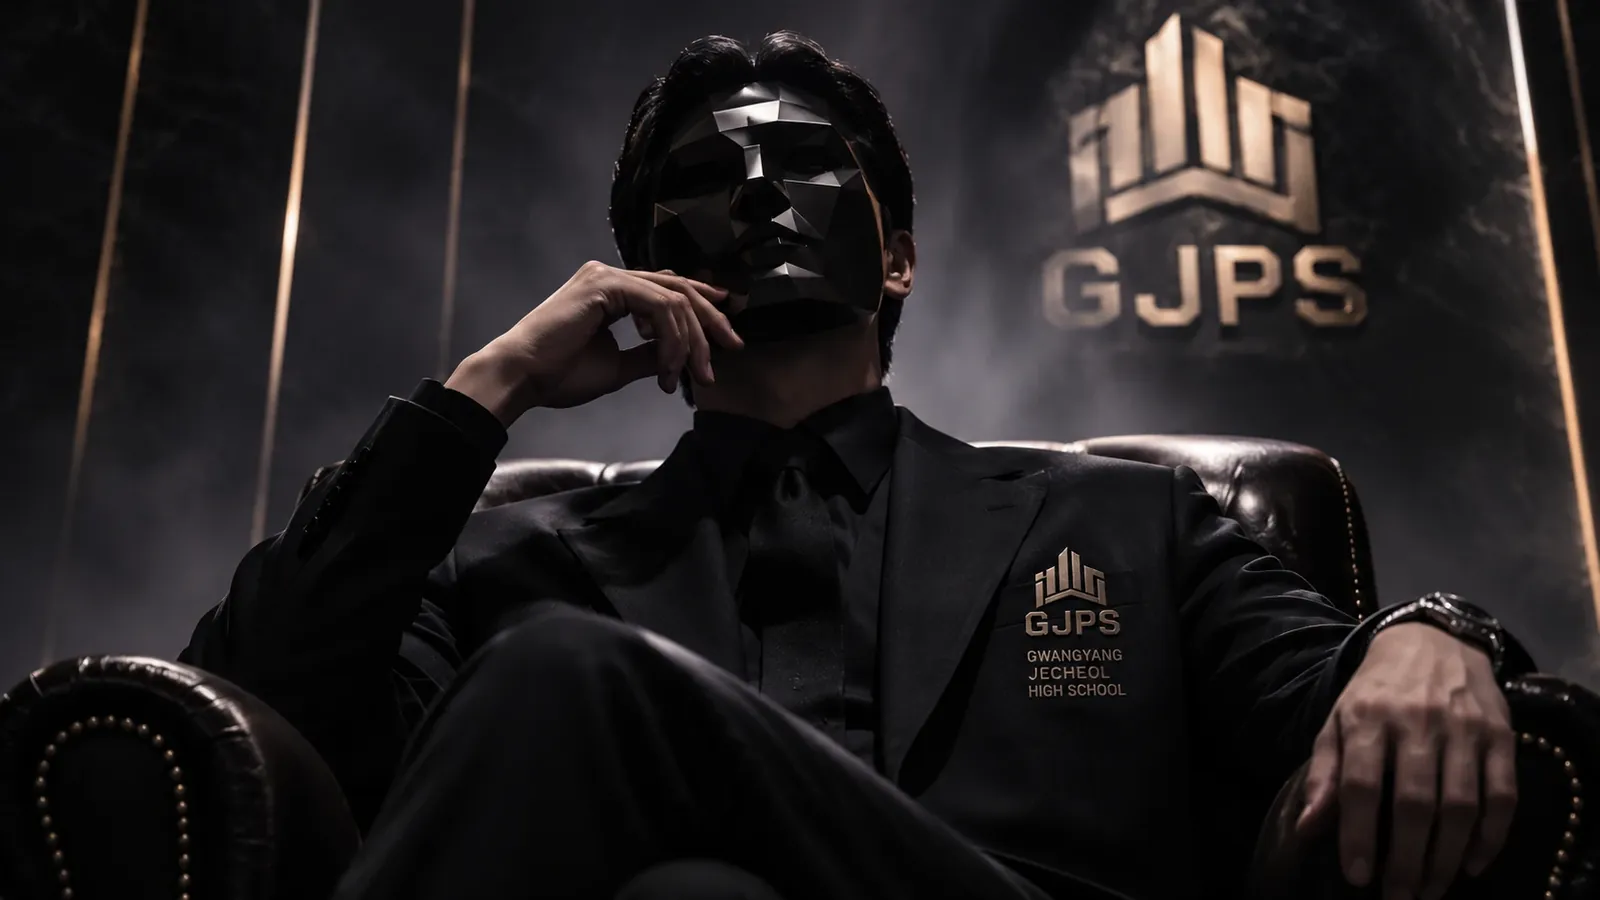
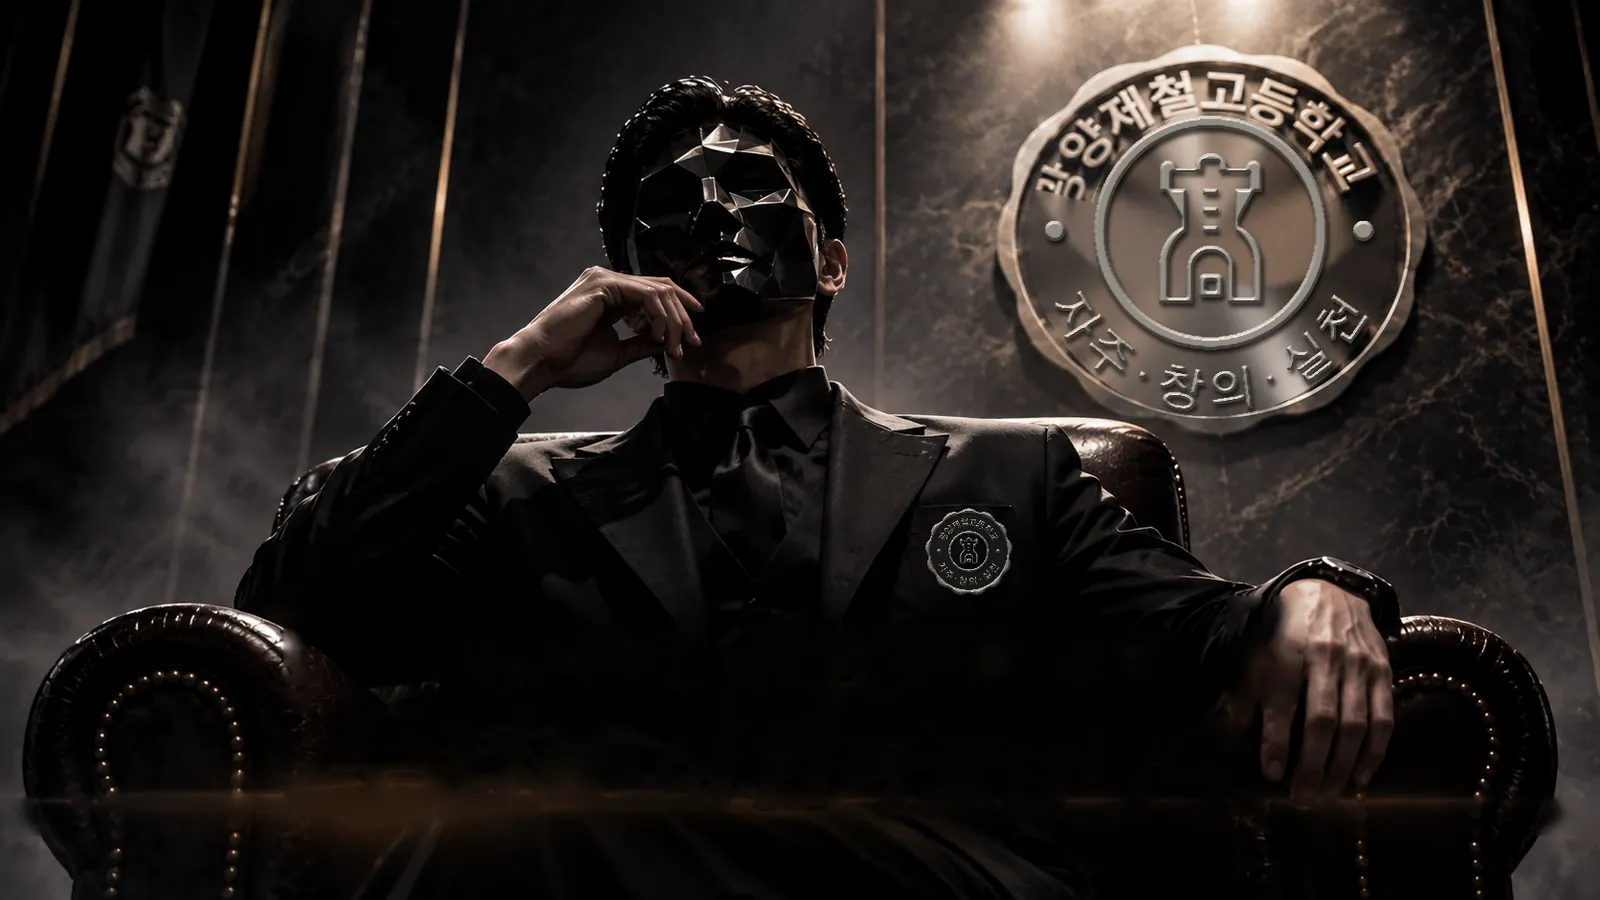
커뮤니티 Part2: 진행자 녹음 목소리·첫 화면 오프닝·진행자 움직임

diff --git a/community2/index.html b/community2/index.html
@@ -79,7 +79,16 @@ input{font:inherit;font-size:20px;padding:10px 12px;border-radius:10px;border:1p
 /* 진행자 사진이 있을 때: 사진을 화면 가득, 글은 왼쪽, 자막은 아래 */
 .host.cine{background:#000}
 .host .bg{display:none}
-.host.cine .bg{display:block;position:absolute;inset:0;background-size:cover;background-position:center 30%;transform:scale(1.04);animation:hzoom 40s linear infinite alternate}
+.host.cine .bg{display:block;position:absolute;inset:0;background-size:cover;background-position:center 30%;transform:scale(1.04);animation:hzoom 40s linear infinite alternate,hbreath 5s ease-in-out infinite}
+/* 2026-11-25: 진행자가 숨 쉬듯(늘) + 말할 때 고개를 살짝 움직이는 느낌 */
+.host.cine.talk .bg{animation:hzoom 40s linear infinite alternate,hbreath 5s ease-in-out infinite,hsway 3.4s ease-in-out infinite,hlit 1.7s ease-in-out infinite}
+@keyframes hbreath{0%,100%{scale:1}50%{scale:1.014}}
+@keyframes hsway{0%,100%{translate:0 0;rotate:0deg}22%{translate:-.35% -.45%;rotate:-.3deg}48%{translate:.1% -.15%;rotate:.08deg}74%{translate:.4% -.4%;rotate:.3deg}}
+@keyframes hlit{0%,100%{filter:brightness(1)}50%{filter:brightness(1.07)}}
+.host.ready{cursor:pointer}
+.host.ready .ctl,.host.ready .pg{display:none}
+.host.ready .sub{animation:hblink 1.6s ease-in-out infinite}
+@keyframes hblink{0%,100%{opacity:1}50%{opacity:.35}}
 @keyframes hzoom{from{transform:scale(1.04)}to{transform:scale(1.12)}}
 .host.cine .shade{position:absolute;inset:0;background:linear-gradient(90deg,#000e 0%,#000b 26%,#0000 52%),linear-gradient(0deg,#000f 0%,#000a 20%,#0000 42%)}
 .host.cine .fig{display:none}
@@ -89,6 +98,14 @@ input{font:inherit;font-size:20px;padding:10px 12px;border-radius:10px;border:1p
 .host.cine .wave{position:fixed;left:50%;bottom:3vh;transform:translateX(-50%);margin:0}
 .host.cine.talk .shade{animation:hred 2.4s ease-in-out infinite}
 @keyframes hred{0%,100%{box-shadow:inset 0 0 0 0 #0000}50%{box-shadow:inset 0 0 18vh 0 #7a0a1433}}
+
+.host.cine .big{background:linear-gradient(180deg,#ffffff 0%,#e4e4e8 42%,#9a9aa3 52%,#f1f1f4 100%);-webkit-background-clip:text;background-clip:text;color:transparent;text-shadow:none;filter:drop-shadow(0 3px 10px #000)}
+.host.cine .big b{background:linear-gradient(180deg,#fff4c8 0%,#e6bb5e 44%,#9c6b1e 54%,#f3d27e 100%);-webkit-background-clip:text;background-clip:text;color:transparent}
+.host.cine .big::after{content:'';display:block;width:70%;height:2px;margin-top:2.6vh;background:linear-gradient(90deg,#0000,#e6bb5e 30%,#fff2c0 50%,#e6bb5e 70%,#0000)}
+.host.cine .big:empty::after{display:none}
+.host.card .side,.host.card .sub{visibility:hidden}
+.host.card .shade{background:none}
+.host.card .bg{background-size:contain;background-repeat:no-repeat;background-color:#000}
 /* 작은 진행자: 문제를 읽을 때 칠판 오른쪽 아래 */
 .mini{position:fixed;right:18px;bottom:18px;z-index:45;display:none;align-items:flex-end;gap:14px;max-width:62vw;pointer-events:none}
 .mini.on{display:flex}
@@ -158,7 +175,7 @@ input{font:inherit;font-size:20px;padding:10px 12px;border-radius:10px;border:1p
  <span>높낮이 <input id="vPitch" type="range" min="0.5" max="1.3" step="0.05" style="width:140px;vertical-align:middle;padding:0"></span>
  <span>빠르기 <input id="vRate" type="range" min="0.7" max="1.2" step="0.05" style="width:140px;vertical-align:middle;padding:0"></span>
  <button class="b g" id="vTest">🔊 들어 보기</button></div>
- <div class="row" style="margin-top:12px"><label style="font-size:18px"><input type="checkbox" id="vReadQ"> 비밀 코드 문제를 열면 조건을 읽어 주기</label><label style="font-size:18px;margin-left:18px"><input type="checkbox" id="vReadRev"> 최종 순위 발표 읽어 주기</label><label style="font-size:18px;margin-left:18px"><input type="checkbox" id="vDrone"> 진행자 화면 배경음</label></div></div>
+ <div class="row" style="margin-top:12px"><label style="font-size:18px"><input type="checkbox" id="vReadQ"> 비밀 코드 문제를 열면 조건을 읽어 주기</label><label style="font-size:18px;margin-left:18px"><input type="checkbox" id="vReadRev"> 최종 순위 발표 읽어 주기</label><label style="font-size:18px;margin-left:18px"><input type="checkbox" id="vRec"> 진행자 녹음 목소리 (끄면 컴퓨터 목소리)</label></div></div>
  <div class="pan"><h2>처음부터</h2><p class="mut">모든 게임 기록을 지웁니다(모둠 이름은 남김). 수업 시작 전 연습해 본 뒤에 누르세요.</p><button class="b r" id="resetAll">전부 초기화</button></div>
 </section>
 </main>
@@ -204,7 +221,7 @@ if (PIN) start();
 function act(a, x) { return run('brdAct', [PIN, a, x]).then(function (s) { S = s; last = ''; draw(); return s; }).catch(function (e) { modal('오류', esc(e.message)); }); }
 function poll() {
   if (!D || busy) return; busy = true;
-  run('brdStatus', [PIN]).then(function (r) { busy = false; off = r.now - Date.now(); S = r.st; S.prog = r.prog; $('conn').className = 'ok'; draw(); auto(); })
+  run('brdStatus', [PIN]).then(function (r) { busy = false; off = r.now - Date.now(); S = r.st; S.prog = r.prog; $('conn').className = 'ok'; draw(); auto(); splash(); })
     .catch(function () { busy = false; $('conn').className = ''; $('conn').textContent = '⚠ 연결 끊김'; });
 }
 setInterval(poll, 2000);
@@ -416,9 +433,47 @@ $('nameSave').onclick = function () { act('names', [].map.call(document.querySel
 $('resetAll').onclick = function () { modal('정말 모든 기록을 지울까요?', '<p>되돌릴 수 없습니다.</p>').then(function (y) { if (y) act('reset'); }); };
 
 // ---------- 검은 가면 진행자 (규칙·문제를 말로 설명) ----------
-var HV = { voice: '', pitch: 0.7, rate: 0.9, readQ: true, readRev: true };
+var HV = { voice: '', pitch: 0.7, rate: 0.9, readQ: true, readRev: true, rec: true };
 try { var hv0 = JSON.parse(localStorage.getItem('cm2voice2') || '{}'); for (var k0 in hv0) HV[k0] = hv0[k0]; } catch (e) {}
 function hvSave() { try { localStorage.setItem('cm2voice2', JSON.stringify(HV)); } catch (e) {} }
+// 진행자 녹음 목소리 (2026-11-25 AI Studio 'Algenib' 목소리로 녹음 → voicefx 쇠긁힘 살짝 + 1.15배 빠르게, voice/*.mp3)
+// 대사 글자가 이 목록과 똑같을 때만 녹음을 틀고, 대사를 고치거나 파일이 없으면 그 줄은 컴퓨터 목소리로 읽음.
+var VOICE = {
+"반갑습니다. 커뮤니티 파트 투, 최종전에 오신 것을 환영합니다.": "voice/intro_00.mp3",
+"지금부터, 광양제철고의 두뇌를 시험하겠습니다.": "voice/intro_01.mp3",
+"오늘 여러분은 세 개의 게임을 치르게 됩니다. 기억의 방. 비밀 코드. 그리고, 울타리 치기.": "voice/intro_02.mp3",
+"각 게임의 순위에 따라 1위는 4점, 2위는 3점, 3위는 2점, 4위는 1점을 얻습니다.": "voice/intro_03.mp3",
+"세 게임의 점수를 모두 더해 최종 순위를 정합니다. 합계가 같다면, 마지막 게임 울타리 치기에서 순위가 높은 모둠이 앞섭니다.": "voice/intro_04.mp3",
+"최종 1위 모둠에게는 심화반 누적 점수 20점이 주어집니다. 2위는 15점, 3위는 10점, 4위는 5점입니다.": "voice/intro_05.mp3",
+"모든 답은 모둠의 태블릿으로 제출합니다. 한 번 제출한 답은 되돌릴 수 없습니다. 신중하게 결정하십시오.": "voice/intro_06.mp3",
+"그럼, 최종전을 시작하겠습니다. 행운을 빕니다.": "voice/intro_07.mp3",
+"첫 번째 게임, 기억의 방입니다.": "voice/mem_00.mp3",
+"지금부터 칠판에 그림 한 장이 60초 동안 공개됩니다. 그 그림을, 최대한 자세히 기억하십시오.": "voice/mem_01.mp3",
+"60초가 지나면 그림은 사라집니다. 그리고 각 모둠의 태블릿에, 몇 군데가 바뀐 그림이 나타납니다.": "voice/mem_02.mp3",
+"100초 안에, 바뀌었다고 생각하는 곳을 눌러 표시하고 제출하십시오. 몇 군데가 바뀌었는지는 태블릿에 알려 드립니다.": "voice/mem_03.mp3",
+"바뀐 곳을 맞히면 1점을 얻습니다. 하지만 바뀌지 않은 곳을 표시하면, 1점을 잃습니다.": "voice/mem_04.mp3",
+"게임은 세 라운드로 진행됩니다. 바뀐 곳은 라운드마다 다섯 곳, 일곱 곳, 여덟 곳으로 늘어납니다.": "voice/mem_05.mp3",
+"모든 라운드의 점수를 더해 순위를 정합니다. 합계가 같다면, 마지막 라운드 점수가 높은 모둠이 앞섭니다.": "voice/mem_06.mp3",
+"기억은, 생각보다 쉽게 무너집니다. 그럼, 기억의 방을 시작하겠습니다.": "voice/mem_07.mp3",
+"두 번째 게임, 비밀 코드입니다.": "voice/code_00.mp3",
+"화면에는 스물여섯 장의 카드가 있습니다. 카드마다 알파벳 하나, 숫자 하나, 색깔 하나, 그리고 도형 하나가 그려져 있습니다.": "voice/code_01.mp3",
+"문제마다 몇 개의 조건이 주어집니다. 그 조건을 모두 만족하는 카드 네 장을 찾으십시오. 정답은, 단 하나뿐입니다.": "voice/code_02.mp3",
+"네 장을 골라 태블릿으로 제출하십시오. 가장 먼저 맞힌 모둠은 4점, 두 번째는 3점, 세 번째는 2점, 네 번째는 1점을 얻습니다.": "voice/code_03.mp3",
+"틀린 답을 제출하면, 그 모둠은 40초 동안 제출할 수 없습니다.": "voice/code_04.mp3",
+"문제는 모두 다섯 개, 문제마다 제한 시간은 4분입니다. 합계가 같은 모둠이 있다면, 연장 문제로 승부를 가립니다.": "voice/code_05.mp3",
+"빠른 모둠이 이기는 게임입니다. 하지만, 틀리는 순간 멈추게 됩니다. 그럼, 비밀 코드를 시작하겠습니다.": "voice/code_06.mp3",
+"마지막 게임, 울타리 치기입니다.": "voice/loop_00.mp3",
+"판 위의 점과 점을 선으로 이어, 끊어지지 않는 하나의 고리를 만드십시오.": "voice/loop_01.mp3",
+"칸 안의 숫자는, 그 칸의 네 변 가운데 고리가 지나가는 변의 개수입니다. 숫자가 없는 칸은, 몇 개가 지나가도 상관없습니다.": "voice/loop_02.mp3",
+"고리는 중간에 갈라지거나 서로 엇갈릴 수 없습니다. 반드시 하나로 이어진, 닫힌 고리여야 합니다.": "voice/loop_03.mp3",
+"먼저 5 곱하기 5 연습판으로, 5분 동안 규칙을 익힙니다. 연습판은 점수에 들어가지 않습니다.": "voice/loop_04.mp3",
+"본게임은 10 곱하기 10 판입니다. 제한 시간은 20분입니다.": "voice/loop_05.mp3",
+"완성한 판을 제출해 정답이면, 완성한 순서대로 순위가 정해집니다. 틀리면 1분 동안 제출할 수 없습니다.": "voice/loop_06.mp3",
+"시간 안에 완성하지 못한 모둠은, 진행률이 높은 순서로 순위를 정합니다.": "voice/loop_07.mp3",
+"이 게임의 순위는, 최종 점수가 같을 때 승부를 가르는 기준이기도 합니다.": "voice/loop_08.mp3",
+"마지막 게임입니다. 그럼, 울타리 치기를 시작하겠습니다.": "voice/loop_09.mp3"
+};
+var VAUD = null;
 // 선생님 그림(img/host.png)이 없을 때 쓰는 검은 가면 실루엣
 var MASK = '<svg viewBox="0 0 400 560" xmlns="http://www.w3.org/2000/svg"><defs>' +
   '<radialGradient id="mk" cx="38%" cy="30%" r="75%"><stop offset="0" stop-color="#3a3a44"/><stop offset=".35" stop-color="#121216"/><stop offset="1" stop-color="#020203"/></radialGradient>' +
@@ -448,15 +503,26 @@ function pickVoice() {
 function say(text, onEnd, grave) {
   var done = false, guard;
   var fin = function () { if (done) return; done = true; clearTimeout(guard); if (onEnd) onEnd(); };
-  guard = setTimeout(fin, 4000 + text.length * (grave ? 320 : 260));    // 목소리가 없거나 끝났다는 신호가 안 와도 넘어가게
-  if (window.speechSynthesis) {
-    speechSynthesis.cancel();
-    var u = new SpeechSynthesisUtterance(spoken(text)), v = pickVoice();
-    if (v) { u.voice = v; u.lang = v.lang; } else u.lang = 'ko-KR';
-    u.pitch = Math.max(0.1, +HV.pitch - (grave ? 0.08 : 0)); u.rate = +HV.rate * (grave ? 0.9 : 1); u.onend = fin; u.onerror = fin;
-    speechSynthesis.speak(u);
-  }
-  return { cancel: function () { done = true; clearTimeout(guard); if (window.speechSynthesis) speechSynthesis.cancel(); } };
+  var tts = function () {
+    clearTimeout(guard); guard = setTimeout(fin, 4000 + text.length * (grave ? 320 : 260));    // 목소리가 없거나 끝났다는 신호가 안 와도 넘어가게
+    if (window.speechSynthesis) {
+      speechSynthesis.cancel();
+      var u = new SpeechSynthesisUtterance(spoken(text)), v = pickVoice();
+      if (v) { u.voice = v; u.lang = v.lang; } else u.lang = 'ko-KR';
+      u.pitch = Math.max(0.1, +HV.pitch - (grave ? 0.08 : 0)); u.rate = +HV.rate * (grave ? 0.9 : 1); u.onend = fin; u.onerror = fin;
+      speechSynthesis.speak(u);
+    }
+  };
+  if (VAUD) { VAUD.onended = VAUD.onerror = null; VAUD.pause(); VAUD = null; }
+  if (HV.rec !== false && VOICE[text]) {
+    if (window.speechSynthesis) speechSynthesis.cancel();
+    var au = VAUD = new Audio(VOICE[text]), bad = function () { if (!done && VAUD === au) { VAUD = null; tts(); } };
+    guard = setTimeout(fin, 6000 + text.length * 300);
+    au.onloadedmetadata = function () { if (done) return; clearTimeout(guard); guard = setTimeout(fin, au.duration * 1000 + 2500); };
+    au.onended = fin; au.onerror = bad;
+    var pr = au.play(); if (pr && pr.catch) pr.catch(bad);
+  } else tts();
+  return { cancel: function () { done = true; clearTimeout(guard); if (VAUD) { VAUD.onended = VAUD.onerror = null; VAUD.pause(); VAUD = null; } if (window.speechSynthesis) speechSynthesis.cancel(); } };
 }
 // 소리로 읽을 때만: 도형 기호를 말로(화면 글자는 그대로)
 function spoken(t) { return String(t).replace(/●/g, '동그라미').replace(/★/g, '별').replace(/▲/g, '세모').replace(/■/g, '네모').replace(/◆/g, '마름모').replace(/×/g, ' 곱하기 ').replace(/→/g, ', '); }
@@ -465,7 +531,7 @@ function KN(n) { return ['영', '한', '두', '세', '네', '다섯', '여섯', 
 function NAR(key) {
   if (key === 'intro') return { t: 'Final Game', L: [
     ['커뮤니티 Part 2\n<b>최종전</b>', '반갑습니다. 커뮤니티 파트 투, 최종전에 오신 것을 환영합니다.'],
-    ['광양제철고의\n<b>두뇌</b>를 시험하겠습니다', '지금부터, 광양제철고의 두뇌를 시험하겠습니다.'],
+    ['광양제철고의\n<b>두뇌</b>를 시험하겠습니다', '지금부터, 광양제철고의 두뇌를 시험하겠습니다.', 'host_title.webp'],
     ['① 기억의 방\n② 비밀 코드\n③ 울타리 치기', '오늘 여러분은 세 개의 게임을 치르게 됩니다. 기억의 방. 비밀 코드. 그리고, 울타리 치기.'],
     ['게임마다\n1위 <b>4</b> · 2위 <b>3</b> · 3위 <b>2</b> · 4위 <b>1</b>', '각 게임의 순위에 따라 1위는 4점, 2위는 3점, 3위는 2점, 4위는 1점을 얻습니다.'],
     ['세 게임 합계 → 최종 순위\n동점이면 <b>③ 울타리 치기</b> 순위', '세 게임의 점수를 모두 더해 최종 순위를 정합니다. 합계가 같다면, 마지막 게임 울타리 치기에서 순위가 높은 모둠이 앞섭니다.'],
@@ -514,7 +580,7 @@ function hostOpen(key) {
   hostInit().then(function () {
     $('hostFig').innerHTML = hostFig(); $('hTtl').textContent = n.t; H.L = n.L; H.i = 0;
     $('host').classList.toggle('cine', !!HOSTBG); if (HOSTBG) $('hBg').style.backgroundImage = 'url(' + HOSTBG + ')';
-    $('host').classList.add('on'); droneOn(); hostLine();
+    $('host').classList.remove('ready'); $('host').classList.add('on'); hostLine();
   });
 }
 function hostLine() {
@@ -522,6 +588,8 @@ function hostLine() {
   if (H.i >= H.L.length) { setTimeout(hostClose, 900); return; }
   var ln = H.L[H.i], my = H.i;
   $('hBig').innerHTML = ln[0] || ''; $('hSub').textContent = ln[1]; $('hPg').textContent = (H.i + 1) + ' / ' + H.L.length;
+  var card = !!(ln[2] && HOSTBG); $('host').classList.toggle('card', card);
+  if (HOSTBG) $('hBg').style.backgroundImage = 'url(' + (card ? ln[2] : HOSTBG) + ')';
   $('host').classList.add('talk');
   if (H.cur) H.cur.cancel();
   H.cur = say(ln[1], function () {
@@ -529,12 +597,12 @@ function hostLine() {
     setTimeout(function () { if (H.L && H.i === my) { H.i++; hostLine(); } }, 1300);
   }, true);
 }
-function hostClose() { if (H.cur) H.cur.cancel(); H.L = null; $('host').classList.remove('on', 'talk'); droneOff(); }
+function hostClose() { if (H.cur) H.cur.cancel(); H.L = null; $('host').classList.remove('on', 'talk', 'ready'); droneOff(); }
 // 낮게 깔리는 배경음 (Web Audio, 파일 없음)
 var DR = null;
 function droneOn() {
   try {
-    if (DR || HV.drone === false) return; var C = new (window.AudioContext || window.webkitAudioContext)(), g = C.createGain(), f = C.createBiquadFilter();
+    return; if (DR) return; var C = new (window.AudioContext || window.webkitAudioContext)(), g = C.createGain(), f = C.createBiquadFilter();
     f.type = 'lowpass'; f.frequency.value = 220; g.gain.value = 0; g.connect(C.destination); f.connect(g);
     [[55, 'sawtooth', .5], [55.4, 'sawtooth', .5], [82.4, 'sine', .7]].forEach(function (o) { var x = C.createOscillator(), y = C.createGain(); x.type = o[1]; x.frequency.value = o[0]; y.gain.value = o[2]; x.connect(y); y.connect(f); x.start(); });
     var l = C.createOscillator(), lg = C.createGain(); l.frequency.value = .07; lg.gain.value = 90; l.connect(lg); lg.connect(f.frequency); l.start();
@@ -546,12 +614,27 @@ $('hNext').onclick = function (e) { e.stopPropagation(); if (!H.L) return; H.i++
 $('hPrev').onclick = function (e) { e.stopPropagation(); if (!H.L) return; H.i = Math.max(0, H.i - 1); hostLine(); };
 $('hStop').onclick = function (e) { e.stopPropagation(); hostClose(); };
 document.addEventListener('keydown', function (e) {
-  if (!H.L) return;
+  if (!H.L) { if (e.key === 'Escape' && $('host').classList.contains('ready')) hostClose(); return; }
   if (e.key === 'Escape') hostClose();
   else if (e.key === 'ArrowRight' || e.key === ' ') { e.preventDefault(); H.i++; hostLine(); }
   else if (e.key === 'ArrowLeft') { H.i = Math.max(0, H.i - 1); hostLine(); }
 });
 document.querySelectorAll('[data-host]').forEach(function (b) { b.onclick = function () { if (!D) { askPin(); return; } hostOpen(b.dataset.host); }; });
+// 2026-11-25: 첫 화면부터 오프닝. 아직 아무 게임도 안 했을 때, 연결되자마자 한 번.
+// 브라우저는 화면을 한 번이라도 누르기 전에는 소리를 막으므로, 아직 안 눌렀으면 '누르면 시작' 화면을 먼저 띄움.
+var SPL = false;
+function splash() {
+  if (SPL || !D || !S) return; SPL = true;
+  if ([0, 1, 2].some(played) || H.L) return;
+  if (navigator.userActivation && navigator.userActivation.hasBeenActive) { hostOpen('intro'); return; }
+  hostInit().then(function () {
+    $('hostFig').innerHTML = hostFig(); $('hTtl').textContent = 'Final Game'; H.L = null;
+    $('hBig').innerHTML = '커뮤니티 Part 2<br><b>최종전</b>'; $('hSub').textContent = '▶ 화면을 누르면 시작합니다'; $('hPg').textContent = '';
+    $('host').classList.toggle('cine', !!HOSTBG); $('host').classList.remove('card', 'talk'); if (HOSTBG) $('hBg').style.backgroundImage = 'url(' + HOSTBG + ')';
+    $('host').classList.add('on', 'ready');
+  });
+}
+$('host').addEventListener('click', function () { if ($('host').classList.contains('ready')) hostOpen('intro'); });
 // 작은 진행자: 비밀 코드 조건 읽기 · 최종 순위 발표
 var MQ = [], MQon = false;
 function miniSay(lines) {
@@ -594,7 +677,8 @@ $('vPitch').oninput = function () { HV.pitch = +this.value; hvSave(); };
 $('vRate').oninput = function () { HV.rate = +this.value; hvSave(); };
 $('vReadQ').onchange = function () { HV.readQ = this.checked; hvSave(); };
 $('vReadRev').onchange = function () { HV.readRev = this.checked; hvSave(); };
-$('vDrone').checked = HV.drone !== false; $('vDrone').onchange = function () { HV.drone = this.checked; hvSave(); };
+$('vRec').checked = HV.rec !== false; $('vRec').onchange = function () { HV.rec = this.checked; hvSave(); };
+
 $('vTest').onclick = function () { miniSay(['반갑습니다. 커뮤니티 파트 투, 최종전에 오신 것을 환영합니다.']); };
 </script>
 </body></html>
